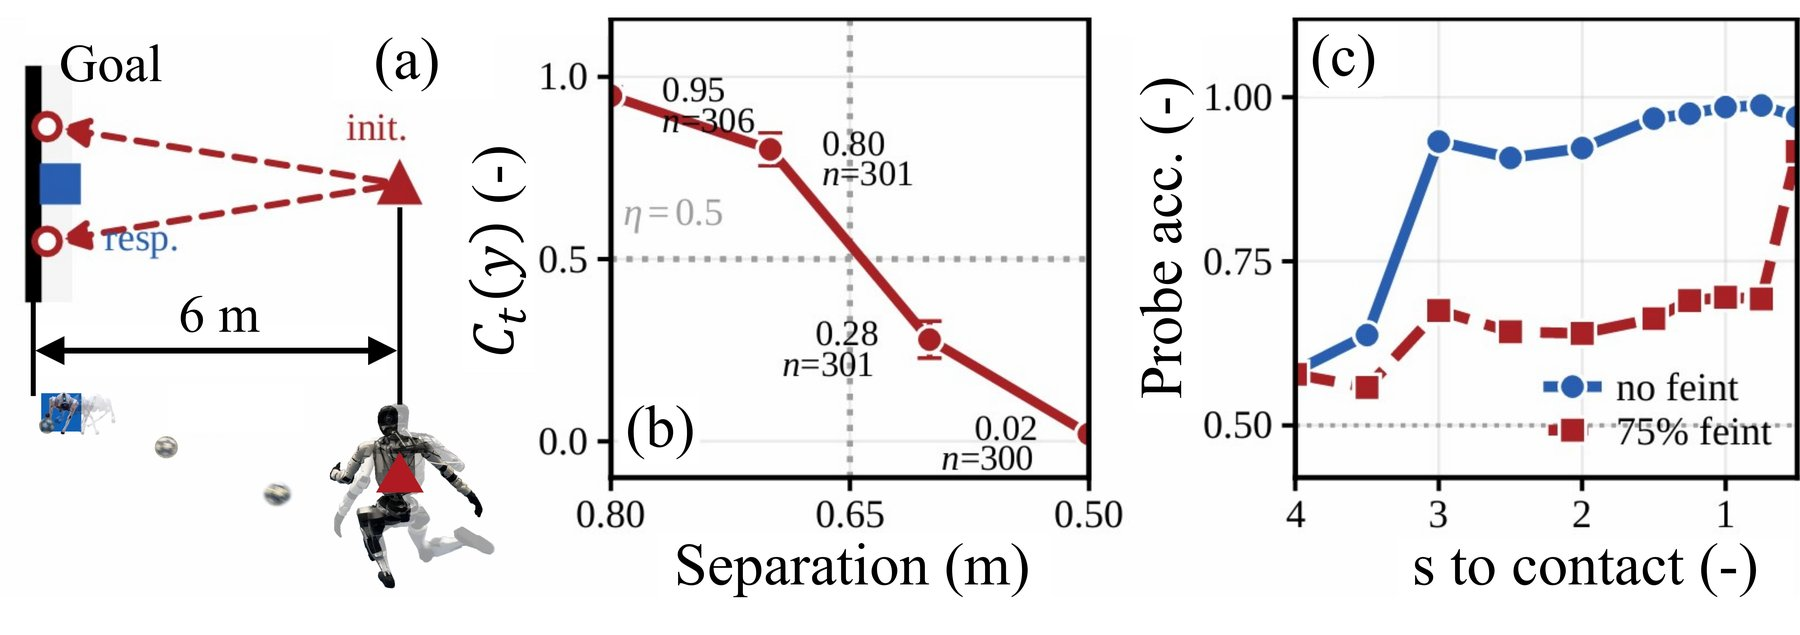
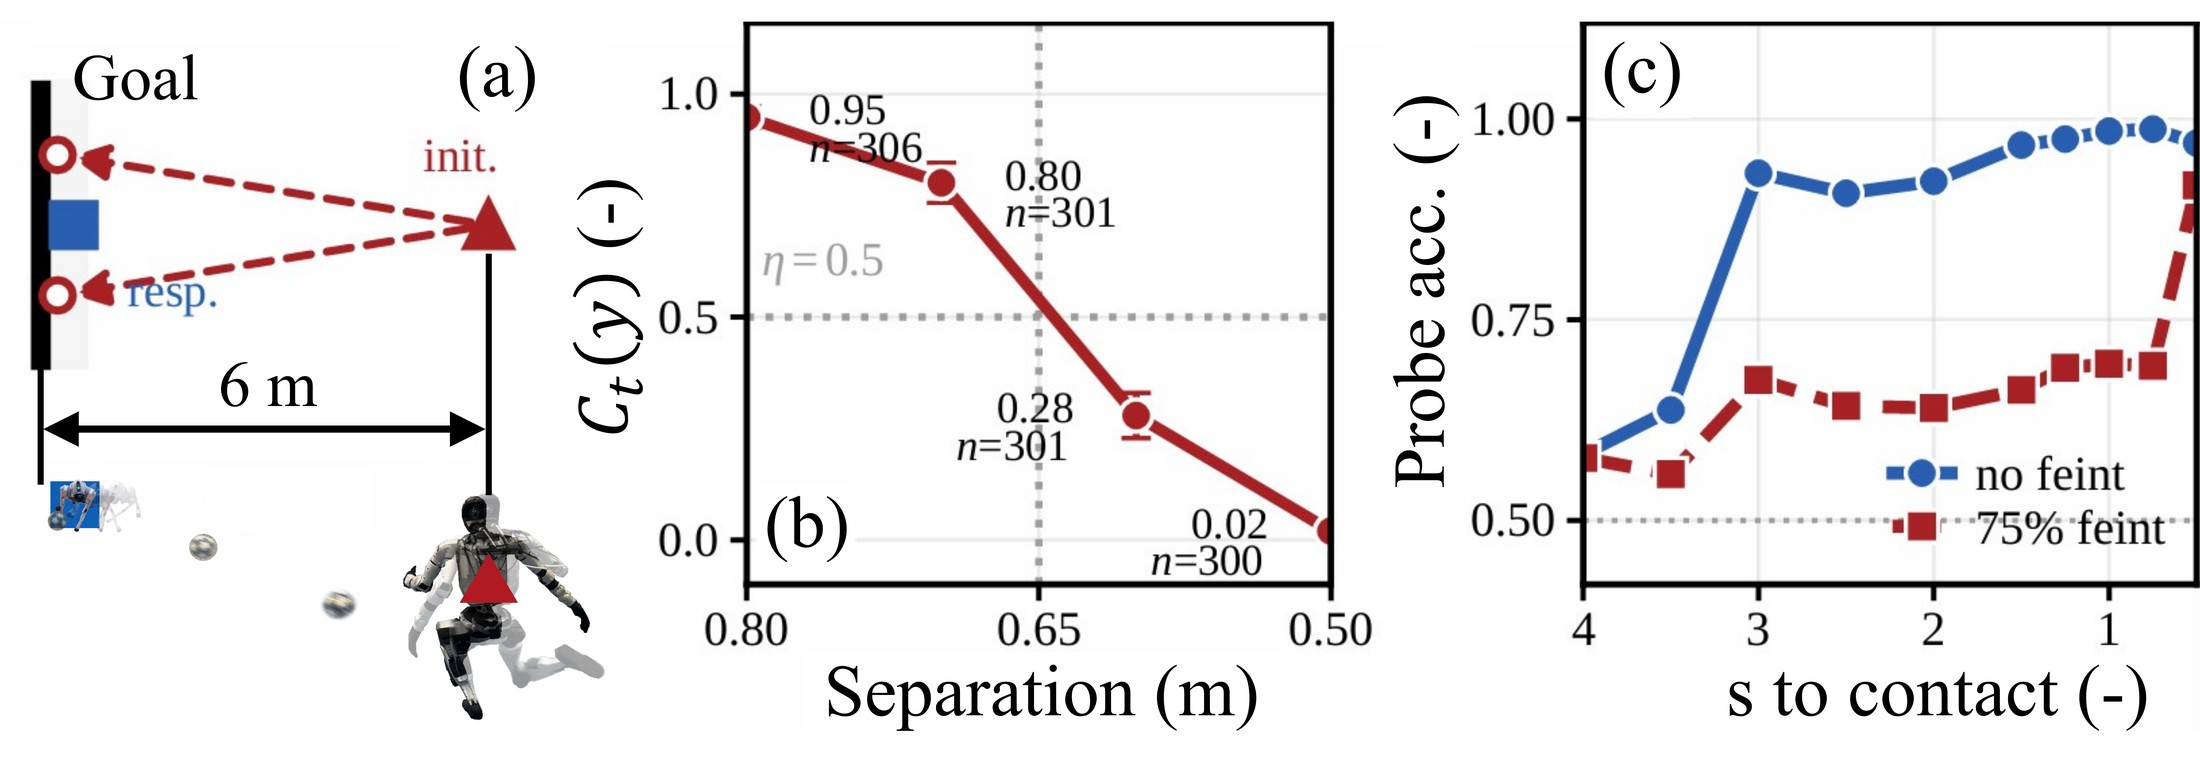
Re-render project page figures at high resolution

diff --git a/sage/index.html b/sage/index.html
@@ -154,7 +154,7 @@
 <section class="section">
   <div class="container is-max-desktop">
     <div class="figure-block">
-      <img src="static/images/FIG1_SAGE.jpg" alt="SAGE architecture">
+      <img src="static/images/FIG1_SAGE.png" alt="SAGE architecture">
       <div class="figure-description">
         <strong>Figure 1: Architecture of SAGE</strong> integrating auditable hard-tree nominal policies, SAIL-based proposal learning, exact joint CBF-QP execution, and TALO-based multi-actor policy optimization.
       </div>
@@ -166,7 +166,7 @@
   <div class="container is-max-desktop">
     <h2 class="title is-3 section-title has-text-centered">SAGE Training & Deployment Framework</h2>
     <div class="figure-block">
-      <img src="static/images/algorithm_main_compressed.jpg" alt="SAGE training and deployment structure">
+      <img src="static/images/algorithm_main_compressed.png" alt="SAGE training and deployment structure">
       <div class="figure-description">
         <strong>Figure 2: Training and deployment structure of SAGE.</strong> Hard-tree actors generate auditable nominal actions, SAIL forms differentiable proposal centers for safety-aware proposal learning, the exact joint CBF-QP maps sampled proposals to constraint-satisfying executed actions, and TALO uses executed-transition returns and a team-aware update reference to regulate independent actor updates. SAIL, exploration, the critic, and TALO are removed at deployment, leaving only the learned hard-tree actors and the exact joint CBF-QP.
       </div>
@@ -243,42 +243,42 @@
     <div class="figure-grid">
 
       <div class="figure-block">
-        <img src="static/images/fig_main_sr_col_bars.jpg" alt="Suite-level performance">
+        <img src="static/images/fig_main_sr_col_bars.png" alt="Suite-level performance">
         <div class="figure-description">
           <strong>Figure 7: Suite-level performance across LCP, STR, and CCN</strong>, with success rate (↑) above and collision steps per thousand environment steps (↓) below; the broken lower axis accommodates the much larger collision rate of unshielded HAPPO, and error bars denote standard deviation across evaluation runs.
         </div>
       </div>
 
       <div class="figure-block">
-        <img src="static/images/reward_drop.jpg" alt="Training dynamics">
+        <img src="static/images/reward_drop.png" alt="Training dynamics">
         <div class="figure-description">
           <strong>Figure 8: Training dynamics of the five methods</strong> showing (a) cumulative reward and (b) payload drop rate, with solid curves denoting the mean and shaded regions the variability across runs.
         </div>
       </div>
 
       <div class="figure-block">
-        <img src="static/images/sail_talo_stack.jpg" alt="SAIL and TALO mechanism dynamics">
+        <img src="static/images/sail_talo_stack.png" alt="SAIL and TALO mechanism dynamics">
         <div class="figure-description">
           <strong>Figure 9: SAIL and TALO mechanism dynamics</strong> showing (a) proposal violation rate of the raw hard-tree nominal action, (b) proposal–execution correction, (c) update-consistency gap, and (d) cosine alignment between the independent and team-aware gradients.
         </div>
       </div>
 
       <div class="figure-block">
-        <img src="static/images/scaled_payload_panels.jpg" alt="Execution-level comparison">
+        <img src="static/images/scaled_payload_panels.png" alt="Execution-level comparison">
         <div class="figure-description">
           <strong>Figure 10: Execution-level comparison across the five methods</strong> in (a) payload-tilt-induced vertical deviation, (b) mean step-wise heading error, (c) payload height error, and (d) task completion time, with error bars indicating variability across runs.
         </div>
       </div>
 
       <div class="figure-block">
-        <img src="static/images/isaac_maze_row_open.jpg" alt="Joint-leaf-tuple audit">
+        <img src="static/images/isaac_maze_row_open.png" alt="Joint-leaf-tuple audit">
         <div class="figure-description">
           <strong>Figure 11: Joint-leaf-tuple audit in the Isaac Lab Maze</strong> showing (a) occupancy over path progress across 30 evaluation episodes and (b) the highlighted episode colored by the 12 most frequent tuples, with remaining tuples grouped as other; the black square and red star mark the start and goal.
         </div>
       </div>
 
       <div class="figure-block">
-        <img src="static/images/risk_maze_3pa_wide_s1_robot_tree_flat.jpg" alt="Hard-tree decision traces">
+        <img src="static/images/risk_maze_3pa_wide_s1_robot_tree_flat.png" alt="Hard-tree decision traces">
         <div class="figure-description">
           <strong>Figure 12: Representative decision traces through a deployed hard-tree policy</strong> in the Isaac Lab Maze, with green and purple branches marking two complete root-to-leaf predicate sequences and their affine leaf commands; unselected sibling branches are collapsed for readability.
         </div>

diff --git a/penaltykick/index.html b/penaltykick/index.html
@@ -154,7 +154,7 @@
 <section class="section">
   <div class="container is-max-desktop">
     <div class="figure-block">
-      <img src="static/images/fig1_game.jpg" alt="Game-learning framework overview">
+      <img src="static/images/fig1_game.png" alt="Game-learning framework overview">
       <div class="figure-description">
         <strong>Figure 1: Overview of the proposed game-learning framework.</strong> Physical dynamics induce commitment, the responder's deferral option bounds equilibrium concentration, and estimator response values determine the active first-order learning channel during zero-sum self-play.
       </div>
@@ -166,7 +166,7 @@
   <div class="container is-max-desktop">
     <h2 class="title is-3 section-title has-text-centered">Three-Layer Architecture & DIC-Map</h2>
     <div class="figure-block">
-      <img src="static/images/game_algorithm.jpg" alt="Three-layer architecture">
+      <img src="static/images/game_algorithm.png" alt="Three-layer architecture">
       <div class="figure-description">
         <strong>Figure 2: Three-layer architecture separating executable whole-body skills, strategic self-play, and DIC-Map.</strong> Fixed S-WBCs realize humanoid shooting and quadruped saving, game-level actor–critics revise strategic commands under zero-sum self-play, and DIC-Map maps the resulting physical rollouts to commitment timing, an equilibrium concentration constraint, and the active first-order learning channel.
       </div>
@@ -247,42 +247,42 @@
     <div class="figure-grid">
 
       <div class="figure-block">
-        <img src="static/images/fig6_branch_replay.jpg" alt="Responder comparison">
+        <img src="static/images/fig6_branch_replay.png" alt="Responder comparison">
         <div class="figure-description">
           <strong>Figure 7: Controlled responder comparison at β = 0.8.</strong> (a) Read accuracy versus save rate, where A→D and A→F yield similar accuracy gains but save-rate gains of +0.006 and +0.232; (b) cumulative save rate; (c) policy-F class-conditional Q<sub>yy</sub>, σ(y,y), and g<sub>y</sub>; (d) terminal responder position versus ball crossing.
         </div>
       </div>
 
       <div class="figure-block">
-        <img src="static/images/fig5_crossplay.jpg" alt="Cross-play outcomes">
+        <img src="static/images/fig5_crossplay.png" alt="Cross-play outcomes">
         <div class="figure-description">
           <strong>Figure 8: Responder outcomes across evaluation settings.</strong> (a) Save, goal, and fall rates for policies A, D, E, and F; (b) a scripted-feint comparison in which deferral attains a save rate of 0.736 versus 0.502 for early-read following, with reactive-world bars reported using 95% CIs.
         </div>
       </div>
 
       <div class="figure-block">
-        <img src="static/images/fig2_purity_ceiling.jpg" alt="Posterior equilibrium analysis">
+        <img src="static/images/fig2_purity_ceiling.png" alt="Posterior equilibrium analysis">
         <div class="figure-description">
           <strong>Figure 9: Posterior equilibrium analysis.</strong> (a) Coverage posteriors, (b) the posterior CDF of r, (c) the concentration-ceiling posterior against observed m, and (d) the posterior CDF of deviation gain. The broader downstream uncertainty reflects limited support for the mismatched-commitment cell.
         </div>
       </div>
 
       <div class="figure-block">
-        <img src="static/images/fig9_state_recording.jpg" alt="State recording">
+        <img src="static/images/fig9_state_recording.png" alt="State recording">
         <div class="figure-description">
           <strong>Figure 10: Policy-F state recording.</strong> (a) Ball trajectories grouped by terminal event, (b) responder read-lock time against the initiator commitment time, where every sampled episode locks after the ball side is fixed, (c) goal rate, and (d) lateral prediction error.
         </div>
       </div>
 
       <div class="figure-block">
-        <img src="static/images/fig8_phase_diagram.jpg" alt="Phase diagram">
+        <img src="static/images/fig8_phase_diagram.png" alt="Phase diagram">
         <div class="figure-description">
           <strong>Figure 11: Physical timing across ball speed.</strong> (a) The responder spare-time margin and no-reaction margin, and (b) measured deferral coverage versus spare-time margin with 95% Jeffreys intervals and cell counts.
         </div>
       </div>
 
       <div class="figure-block">
-        <img src="static/images/fig4_league_training.jpg" alt="League training dynamics">
+        <img src="static/images/fig4_league_training.png" alt="League training dynamics">
         <div class="figure-description">
           <strong>Figure 12: League training dynamics for the two analyzed runs.</strong> (a) Live save rate, (b) initiator switches per episode, (c) responder action standard deviation, and (d) save rate against the frozen archive, which increases from 0.51 to 0.68.
         </div>
